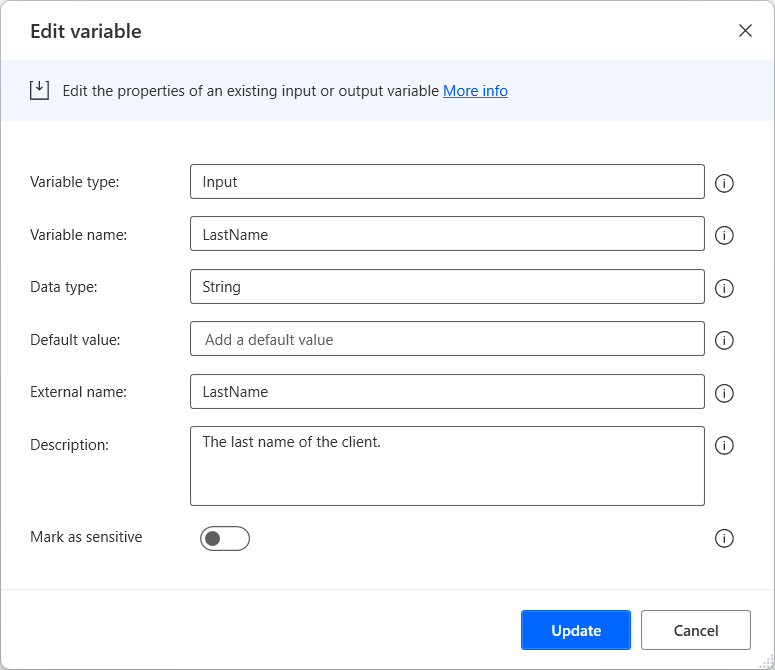
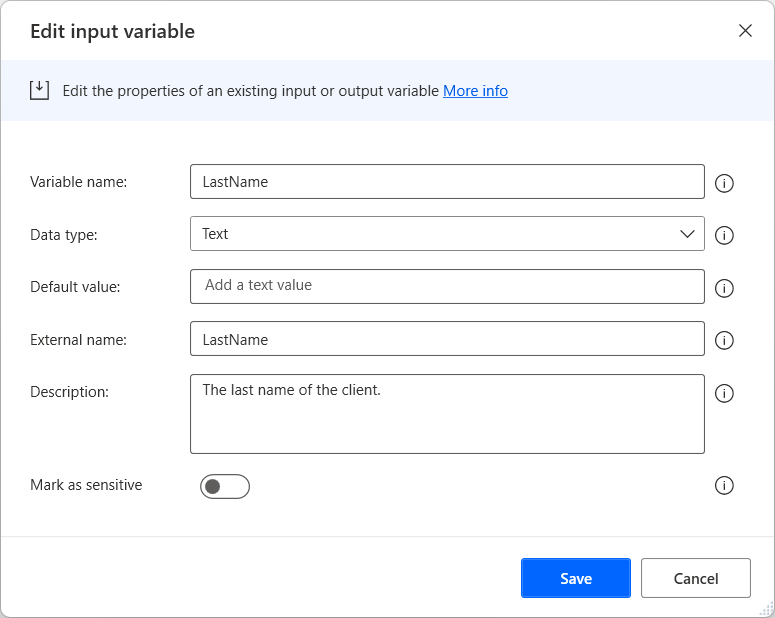
Updates in Manage input and output variables

diff --git a/articles/desktop-flows/manage-variables.md b/articles/desktop-flows/manage-variables.md
@@ -134,7 +134,7 @@ To update an input/output variable:
 
     ![Screenshot of the Edit option for input/output variables.](media\renaming-variables\rename-input-variable.png)
 
-2. In the **Edit variable** dialog, update the desired fields and select **Update** to apply the changes.
+2. In the **Edit input/output variable** dialog, update the desired fields and select **Save** to apply the changes.
 
     ![Screenshot of the Edit variable dialog box.](media\renaming-variables\edit-variable-dialog.png)
 
